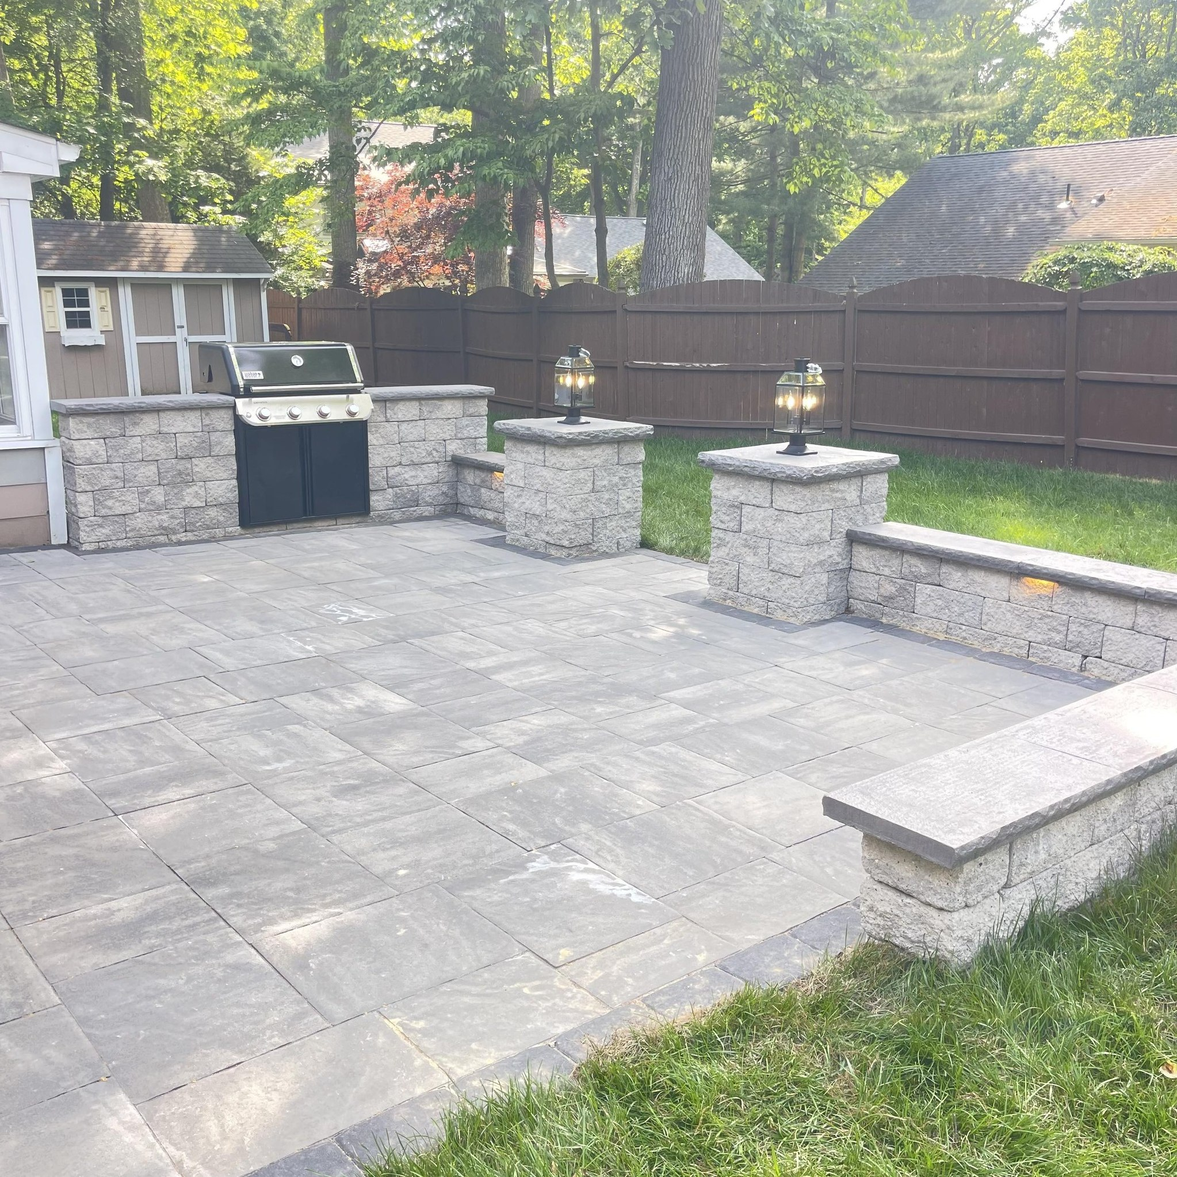
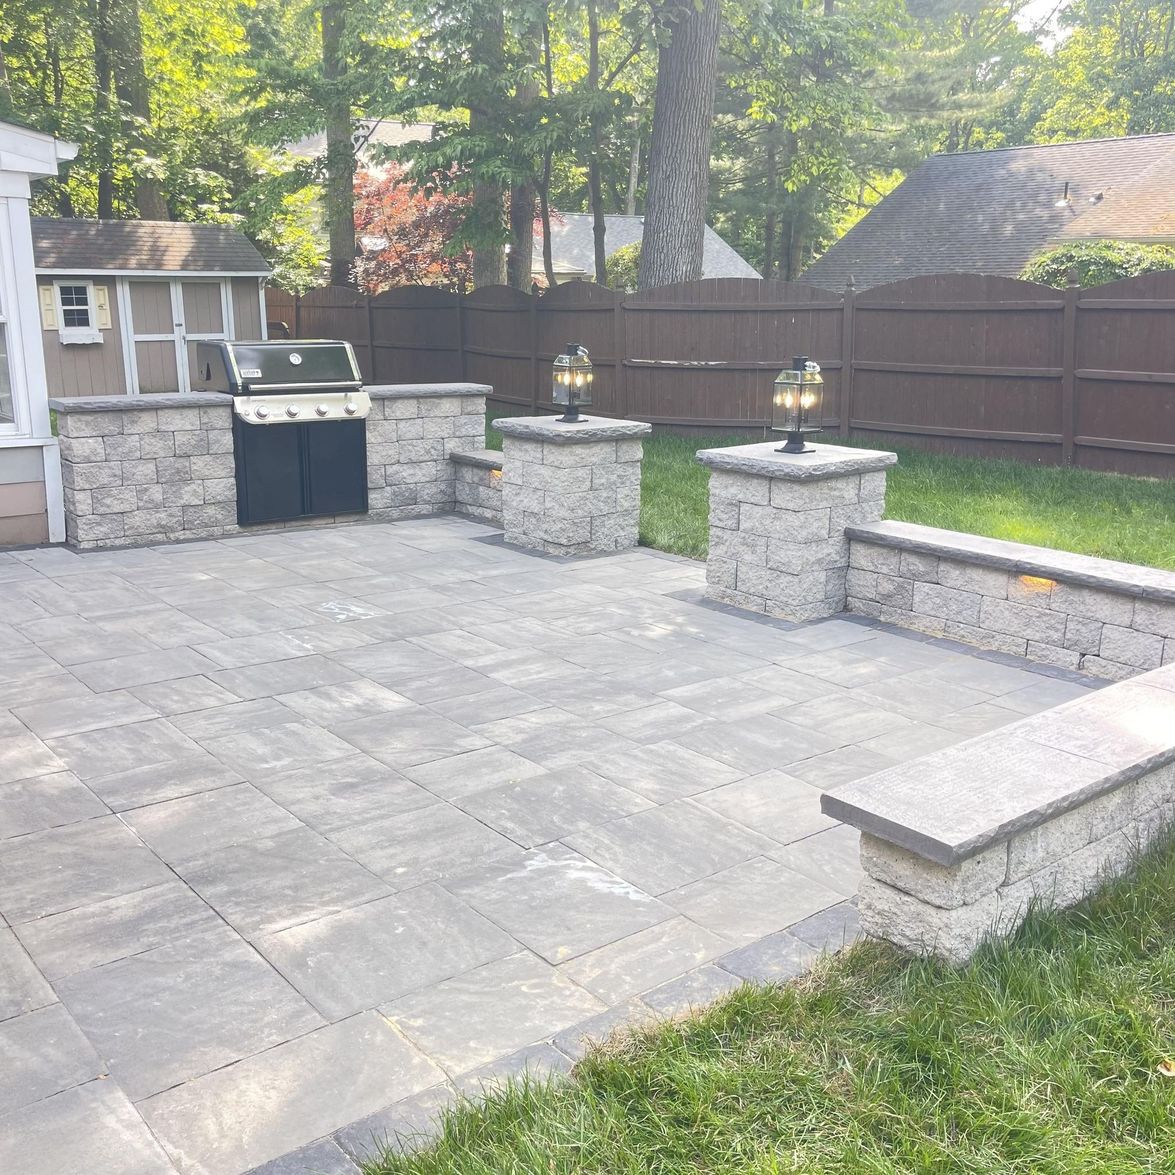
Cache-bust Hernandez assets after SHA dedupe.

diff --git a/hernandez-brothers-hardscaping-llc/photos.html b/hernandez-brothers-hardscaping-llc/photos.html
@@ -10,7 +10,7 @@
 <link rel="preconnect" href="https://fonts.googleapis.com">
 <link rel="preconnect" href="https://fonts.gstatic.com" crossorigin>
 <link href="https://fonts.googleapis.com/css2?family=Barlow+Condensed:wght@600;700&family=Inter:wght@400;500;600;700&display=swap" rel="stylesheet">
-<link rel="stylesheet" href="assets/site.css?v=harv20260814b">
+<link rel="stylesheet" href="assets/site.css?v=harv20260814cc">
 <meta name="vendly-demo-build" content="blank-mold-20260814-cleareyes">
 <style id="v-lb-css">
 .v-lb-btn{display:block;padding:0;margin:0;border:0;background:transparent;cursor:zoom-in;
@@ -54,7 +54,7 @@ color:#f5f5f0;font:500 14px/1.4 Inter,system-ui,sans-serif;background:linear-gra
       <span class="navtoggle-text">Menu</span>
     </button>
     <a href="index.html" aria-label="Hernandez &amp; Brothers Hardscaping LLC home" style="grid-column:2;justify-self:center">
-      <img class="logo" src="assets/logo.png?v=harv20260814b" alt="Hernandez &amp; Brothers Hardscaping LLC">
+      <img class="logo" src="assets/logo.png?v=harv20260814cc" alt="Hernandez &amp; Brothers Hardscaping LLC">
     </a>
     <span class="navbalance" aria-hidden="true">
       <svg width="20" height="20" viewBox="0 0 24 24" fill="none" stroke="currentColor" stroke-width="2.2" stroke-linecap="round"><path d="M3 6h18M3 12h18M3 18h18"/></svg>
@@ -89,21 +89,21 @@ color:#f5f5f0;font:500 14px/1.4 Inter,system-ui,sans-serif;background:linear-gra
       <p class="lede">Recent hardscape and lawn jobs from the Hernandez & Brothers crew.</p>
     </div>
     <div class="gallery" style="margin-top:32px">
-      <button type="button" class="v-lb-btn" data-v-lb data-v-lb-src="assets/photo-gallery-1.jpg?v=harv20260814bb" data-v-lb-alt="Finished paver patio with built-in grill surround and seating area" aria-label="Finished paver patio with built-in grill surround and seating area - Open photo"><img src="assets/photo-gallery-1.jpg?v=harv20260814bb" alt="Finished paver patio with built-in grill surround and seating area" loading="lazy"></button>
-      <button type="button" class="v-lb-btn" data-v-lb data-v-lb-src="assets/photo-gallery-2.jpg?v=harv20260814bb" data-v-lb-alt="Completed hardscape approach with stone walls and paver surface" aria-label="Completed hardscape approach with stone walls and paver surface - Open photo"><img src="assets/photo-gallery-2.jpg?v=harv20260814bb" alt="Completed hardscape approach with stone walls and paver surface" loading="lazy"></button>
-      <button type="button" class="v-lb-btn" data-v-lb data-v-lb-src="assets/photo-gallery-3.jpg?v=harv20260814bb" data-v-lb-alt="Paver walkway with landscape lighting along the edges" aria-label="Paver walkway with landscape lighting along the edges - Open photo"><img src="assets/photo-gallery-3.jpg?v=harv20260814bb" alt="Paver walkway with landscape lighting along the edges" loading="lazy"></button>
-      <button type="button" class="v-lb-btn" data-v-lb data-v-lb-src="assets/photo-gallery-4.jpg?v=harv20260814bb" data-v-lb-alt="Stone-walled garden bed and paver edging at a house frontage" aria-label="Stone-walled garden bed and paver edging at a house frontage - Open photo"><img src="assets/photo-gallery-4.jpg?v=harv20260814bb" alt="Stone-walled garden bed and paver edging at a house frontage" loading="lazy"></button>
-      <button type="button" class="v-lb-btn" data-v-lb data-v-lb-src="assets/photo-gallery-5.jpg?v=harv20260814bb" data-v-lb-alt="Finished paver and stone wall installation across the front of a property" aria-label="Finished paver and stone wall installation across the front of a property - Open photo"><img src="assets/photo-gallery-5.jpg?v=harv20260814bb" alt="Finished paver and stone wall installation across the front of a property" loading="lazy"></button>
-      <button type="button" class="v-lb-btn" data-v-lb data-v-lb-src="assets/photo-gallery-6.jpg?v=harv20260814bb" data-v-lb-alt="Paver walkway and step run leading to a front door" aria-label="Paver walkway and step run leading to a front door - Open photo"><img src="assets/photo-gallery-6.jpg?v=harv20260814bb" alt="Paver walkway and step run leading to a front door" loading="lazy"></button>
-      <button type="button" class="v-lb-btn" data-v-lb data-v-lb-src="assets/photo-gallery-7.jpg?v=harv20260814bb" data-v-lb-alt="Front entrance walkway with low stone retaining walls" aria-label="Front entrance walkway with low stone retaining walls - Open photo"><img src="assets/photo-gallery-7.jpg?v=harv20260814bb" alt="Front entrance walkway with low stone retaining walls" loading="lazy"></button>
-      <button type="button" class="v-lb-btn" data-v-lb data-v-lb-src="assets/photo-gallery-8.jpg?v=harv20260814bb" data-v-lb-alt="Completed hardscape walkway and stone walls at a residence" aria-label="Completed hardscape walkway and stone walls at a residence - Open photo"><img src="assets/photo-gallery-8.jpg?v=harv20260814bb" alt="Completed hardscape walkway and stone walls at a residence" loading="lazy"></button>
-      <button type="button" class="v-lb-btn" data-v-lb data-v-lb-src="assets/photo-gallery-9.jpg?v=harv20260814bb" data-v-lb-alt="Hernandez and Brothers work trailer lettered with the business name and phone" aria-label="Hernandez and Brothers work trailer lettered with the business name and phone - Open photo"><img src="assets/photo-gallery-9.jpg?v=harv20260814bb" alt="Hernandez and Brothers work trailer lettered with the business name and phone" loading="lazy"></button>
+      <button type="button" class="v-lb-btn" data-v-lb data-v-lb-src="assets/photo-gallery-1.jpg?v=harv20260814ccb" data-v-lb-alt="Finished paver patio with built-in grill surround and seating area" aria-label="Finished paver patio with built-in grill surround and seating area - Open photo"><img src="assets/photo-gallery-1.jpg?v=harv20260814ccb" alt="Finished paver patio with built-in grill surround and seating area" loading="lazy"></button>
+      <button type="button" class="v-lb-btn" data-v-lb data-v-lb-src="assets/photo-gallery-2.jpg?v=harv20260814ccb" data-v-lb-alt="Completed hardscape approach with stone walls and paver surface" aria-label="Completed hardscape approach with stone walls and paver surface - Open photo"><img src="assets/photo-gallery-2.jpg?v=harv20260814ccb" alt="Completed hardscape approach with stone walls and paver surface" loading="lazy"></button>
+      <button type="button" class="v-lb-btn" data-v-lb data-v-lb-src="assets/photo-gallery-3.jpg?v=harv20260814ccb" data-v-lb-alt="Paver walkway with landscape lighting along the edges" aria-label="Paver walkway with landscape lighting along the edges - Open photo"><img src="assets/photo-gallery-3.jpg?v=harv20260814ccb" alt="Paver walkway with landscape lighting along the edges" loading="lazy"></button>
+      <button type="button" class="v-lb-btn" data-v-lb data-v-lb-src="assets/photo-gallery-4.jpg?v=harv20260814ccb" data-v-lb-alt="Stone-walled garden bed and paver edging at a house frontage" aria-label="Stone-walled garden bed and paver edging at a house frontage - Open photo"><img src="assets/photo-gallery-4.jpg?v=harv20260814ccb" alt="Stone-walled garden bed and paver edging at a house frontage" loading="lazy"></button>
+      <button type="button" class="v-lb-btn" data-v-lb data-v-lb-src="assets/photo-gallery-5.jpg?v=harv20260814ccb" data-v-lb-alt="Finished paver and stone wall installation across the front of a property" aria-label="Finished paver and stone wall installation across the front of a property - Open photo"><img src="assets/photo-gallery-5.jpg?v=harv20260814ccb" alt="Finished paver and stone wall installation across the front of a property" loading="lazy"></button>
+      <button type="button" class="v-lb-btn" data-v-lb data-v-lb-src="assets/photo-gallery-6.jpg?v=harv20260814ccb" data-v-lb-alt="Paver walkway and step run leading to a front door" aria-label="Paver walkway and step run leading to a front door - Open photo"><img src="assets/photo-gallery-6.jpg?v=harv20260814ccb" alt="Paver walkway and step run leading to a front door" loading="lazy"></button>
+      <button type="button" class="v-lb-btn" data-v-lb data-v-lb-src="assets/photo-gallery-7.jpg?v=harv20260814ccb" data-v-lb-alt="Front entrance walkway with low stone retaining walls" aria-label="Front entrance walkway with low stone retaining walls - Open photo"><img src="assets/photo-gallery-7.jpg?v=harv20260814ccb" alt="Front entrance walkway with low stone retaining walls" loading="lazy"></button>
+      <button type="button" class="v-lb-btn" data-v-lb data-v-lb-src="assets/photo-gallery-8.jpg?v=harv20260814ccb" data-v-lb-alt="Completed hardscape walkway and stone walls at a residence" aria-label="Completed hardscape walkway and stone walls at a residence - Open photo"><img src="assets/photo-gallery-8.jpg?v=harv20260814ccb" alt="Completed hardscape walkway and stone walls at a residence" loading="lazy"></button>
+      <button type="button" class="v-lb-btn" data-v-lb data-v-lb-src="assets/photo-gallery-9.jpg?v=harv20260814ccb" data-v-lb-alt="Hernandez and Brothers work trailer lettered with the business name and phone" aria-label="Hernandez and Brothers work trailer lettered with the business name and phone - Open photo"><img src="assets/photo-gallery-9.jpg?v=harv20260814ccb" alt="Hernandez and Brothers work trailer lettered with the business name and phone" loading="lazy"></button>
     </div>
   </div>
 </section>
 
 <section class="ctaband reveal" aria-labelledby="h-cta-photos">
-  <img class="bg" src="assets/photo-photos-cta.jpg?v=harv20260814b" alt="" aria-hidden="true" loading="lazy">
+  <img class="bg" src="assets/photo-photos-cta.jpg?v=harv20260814cc" alt="" aria-hidden="true" loading="lazy">
   <div class="wrap inner">
     <h2 id="h-cta-photos">Job photos</h2>
     <p>Call (856) 899-0240 or send a note.</p>
@@ -121,7 +121,7 @@ color:#f5f5f0;font:500 14px/1.4 Inter,system-ui,sans-serif;background:linear-gra
     <div class="fgrid">
       <div>
         <div class="logo-chip" style="margin-bottom:16px">
-          <img class="logo-footer" src="assets/logo.png?v=harv20260814b" alt="Hernandez &amp; Brothers Hardscaping LLC">
+          <img class="logo-footer" src="assets/logo.png?v=harv20260814cc" alt="Hernandez &amp; Brothers Hardscaping LLC">
         </div>
         <p style="margin:0;max-width:34ch">Hernandez &amp; Brothers Hardscaping LLC serving Bridgeton.</p>
       </div>
@@ -175,8 +175,8 @@ color:#f5f5f0;font:500 14px/1.4 Inter,system-ui,sans-serif;background:linear-gra
     accent: "#33663F"
   };
 </script>
-<script src="assets/siteassistant-v2.js?v=harv20260814b" defer></script>
-<script src="assets/site.js?v=harv20260814b" defer></script>
+<script src="assets/siteassistant-v2.js?v=harv20260814cc" defer></script>
+<script src="assets/site.js?v=harv20260814cc" defer></script>
 <script id="v-lb-js">
 (function(){
   if (window.__vendlyLightbox) return;

diff --git a/hernandez-brothers-hardscaping-llc/about.html b/hernandez-brothers-hardscaping-llc/about.html
@@ -10,7 +10,7 @@
 <link rel="preconnect" href="https://fonts.googleapis.com">
 <link rel="preconnect" href="https://fonts.gstatic.com" crossorigin>
 <link href="https://fonts.googleapis.com/css2?family=Barlow+Condensed:wght@600;700&family=Inter:wght@400;500;600;700&display=swap" rel="stylesheet">
-<link rel="stylesheet" href="assets/site.css?v=harv20260814b">
+<link rel="stylesheet" href="assets/site.css?v=harv20260814cc">
 <meta name="vendly-demo-build" content="blank-mold-20260814-cleareyes">
 <style id="v-lb-css">
 .v-lb-btn{display:block;padding:0;margin:0;border:0;background:transparent;cursor:zoom-in;
@@ -54,7 +54,7 @@ color:#f5f5f0;font:500 14px/1.4 Inter,system-ui,sans-serif;background:linear-gra
       <span class="navtoggle-text">Menu</span>
     </button>
     <a href="index.html" aria-label="Hernandez &amp; Brothers Hardscaping LLC home" style="grid-column:2;justify-self:center">
-      <img class="logo" src="assets/logo.png?v=harv20260814b" alt="Hernandez &amp; Brothers Hardscaping LLC">
+      <img class="logo" src="assets/logo.png?v=harv20260814cc" alt="Hernandez &amp; Brothers Hardscaping LLC">
     </a>
     <span class="navbalance" aria-hidden="true">
       <svg width="20" height="20" viewBox="0 0 24 24" fill="none" stroke="currentColor" stroke-width="2.2" stroke-linecap="round"><path d="M3 6h18M3 12h18M3 18h18"/></svg>
@@ -108,7 +108,7 @@ color:#f5f5f0;font:500 14px/1.4 Inter,system-ui,sans-serif;background:linear-gra
       <h2 id="h-area">Where we work</h2>
       <p class="lede">Family crew based in Southern New Jersey. We show up, do the work clean, and leave the job looking like the pictures.</p>
     </div>
-    <div class="media" style="margin-top:28px"><img src="assets/photo-about.jpg?v=harv20260814b" alt="Paver walkway with landscape lighting along the edges" loading="lazy"></div>
+    <div class="media" style="margin-top:28px"><img src="assets/photo-about.jpg?v=harv20260814cc" alt="Paver walkway with landscape lighting along the edges" loading="lazy"></div>
     <div class="areas">
       <span class="area">Bridgeton</span>
     </div>
@@ -126,7 +126,7 @@ color:#f5f5f0;font:500 14px/1.4 Inter,system-ui,sans-serif;background:linear-gra
     <div class="fgrid">
       <div>
         <div class="logo-chip" style="margin-bottom:16px">
-          <img class="logo-footer" src="assets/logo.png?v=harv20260814b" alt="Hernandez &amp; Brothers Hardscaping LLC">
+          <img class="logo-footer" src="assets/logo.png?v=harv20260814cc" alt="Hernandez &amp; Brothers Hardscaping LLC">
         </div>
         <p style="margin:0;max-width:34ch">Hernandez &amp; Brothers Hardscaping LLC serving Bridgeton.</p>
       </div>
@@ -180,8 +180,8 @@ color:#f5f5f0;font:500 14px/1.4 Inter,system-ui,sans-serif;background:linear-gra
     accent: "#33663F"
   };
 </script>
-<script src="assets/siteassistant-v2.js?v=harv20260814b" defer></script>
-<script src="assets/site.js?v=harv20260814b" defer></script>
+<script src="assets/siteassistant-v2.js?v=harv20260814cc" defer></script>
+<script src="assets/site.js?v=harv20260814cc" defer></script>
 <script id="v-lb-js">
 (function(){
   if (window.__vendlyLightbox) return;

diff --git a/hernandez-brothers-hardscaping-llc/index.html b/hernandez-brothers-hardscaping-llc/index.html
@@ -32,7 +32,7 @@
 <link rel="preconnect" href="https://fonts.googleapis.com">
 <link rel="preconnect" href="https://fonts.gstatic.com" crossorigin>
 <link href="https://fonts.googleapis.com/css2?family=Barlow+Condensed:wght@600;700&family=Inter:wght@400;500;600;700&display=swap" rel="stylesheet">
-<link rel="stylesheet" href="assets/site.css?v=harv20260814b">
+<link rel="stylesheet" href="assets/site.css?v=harv20260814cc">
 <style id="v-lb-css">
 .v-lb-btn{display:block;padding:0;margin:0;border:0;background:transparent;cursor:zoom-in;
 width:100%;text-align:inherit;font:inherit;color:inherit;border-radius:inherit;overflow:hidden}
@@ -75,7 +75,7 @@ color:#f5f5f0;font:500 14px/1.4 Inter,system-ui,sans-serif;background:linear-gra
       <span class="navtoggle-text">Menu</span>
     </button>
     <a href="index.html" aria-label="Hernandez &amp; Brothers Hardscaping LLC home" style="grid-column:2;justify-self:center">
-      <img class="logo" src="assets/logo.png?v=harv20260814b" alt="Hernandez &amp; Brothers Hardscaping LLC">
+      <img class="logo" src="assets/logo.png?v=harv20260814cc" alt="Hernandez &amp; Brothers Hardscaping LLC">
     </a>
     <span class="navbalance" aria-hidden="true">
       <svg width="20" height="20" viewBox="0 0 24 24" fill="none" stroke="currentColor" stroke-width="2.2" stroke-linecap="round"><path d="M3 6h18M3 12h18M3 18h18"/></svg>
@@ -103,7 +103,7 @@ color:#f5f5f0;font:500 14px/1.4 Inter,system-ui,sans-serif;background:linear-gra
 <main id="main">
 
 <section class="hero hero-darken-band" aria-labelledby="h-hero">
-  <img class="bg" src="assets/photo-hero.jpg?v=harv20260814b" alt="Landscaping work in Bridgeton" loading="eager">
+  <img class="bg" src="assets/photo-hero.jpg?v=harv20260814cc" alt="Landscaping work in Bridgeton" loading="eager">
   <div class="wrap hero-inner">
     <span class="eyebrow">Bridgeton</span>
     <h1 id="h-hero">Grass getting away from you? <em>Put us on it.</em></h1>
@@ -239,7 +239,7 @@ color:#f5f5f0;font:500 14px/1.4 Inter,system-ui,sans-serif;background:linear-gra
     <div class="fgrid">
       <div>
         <div class="logo-chip" style="margin-bottom:16px">
-          <img class="logo-footer" src="assets/logo.png?v=harv20260814b" alt="Hernandez &amp; Brothers Hardscaping LLC">
+          <img class="logo-footer" src="assets/logo.png?v=harv20260814cc" alt="Hernandez &amp; Brothers Hardscaping LLC">
         </div>
         <p style="margin:0;max-width:34ch">Hernandez &amp; Brothers Hardscaping LLC serving Bridgeton.</p>
       </div>
@@ -305,9 +305,9 @@ color:#f5f5f0;font:500 14px/1.4 Inter,system-ui,sans-serif;background:linear-gra
     accent: "#33663F"
   };
 </script>
-<script src="assets/siteassistant-v2.js?v=harv20260814b" defer></script>
-<script src="assets/hero-rotator.js?v=harv20260814b" defer></script>
-<script src="assets/site.js?v=harv20260814b" defer></script>
+<script src="assets/siteassistant-v2.js?v=harv20260814cc" defer></script>
+<script src="assets/hero-rotator.js?v=harv20260814cc" defer></script>
+<script src="assets/site.js?v=harv20260814cc" defer></script>
 <script id="v-lb-js">
 (function(){
   if (window.__vendlyLightbox) return;

diff --git a/hernandez-brothers-hardscaping-llc/contact.html b/hernandez-brothers-hardscaping-llc/contact.html
@@ -10,7 +10,7 @@
 <link rel="preconnect" href="https://fonts.googleapis.com">
 <link rel="preconnect" href="https://fonts.gstatic.com" crossorigin>
 <link href="https://fonts.googleapis.com/css2?family=Barlow+Condensed:wght@600;700&family=Inter:wght@400;500;600;700&display=swap" rel="stylesheet">
-<link rel="stylesheet" href="assets/site.css?v=harv20260814b">
+<link rel="stylesheet" href="assets/site.css?v=harv20260814cc">
 <meta name="vendly-demo-build" content="blank-mold-20260814-cleareyes">
 <style id="v-lb-css">
 .v-lb-btn{display:block;padding:0;margin:0;border:0;background:transparent;cursor:zoom-in;
@@ -54,7 +54,7 @@ color:#f5f5f0;font:500 14px/1.4 Inter,system-ui,sans-serif;background:linear-gra
       <span class="navtoggle-text">Menu</span>
     </button>
     <a href="index.html" aria-label="Hernandez &amp; Brothers Hardscaping LLC home" style="grid-column:2;justify-self:center">
-      <img class="logo" src="assets/logo.png?v=harv20260814b" alt="Hernandez &amp; Brothers Hardscaping LLC">
+      <img class="logo" src="assets/logo.png?v=harv20260814cc" alt="Hernandez &amp; Brothers Hardscaping LLC">
     </a>
     <span class="navbalance" aria-hidden="true">
       <svg width="20" height="20" viewBox="0 0 24 24" fill="none" stroke="currentColor" stroke-width="2.2" stroke-linecap="round"><path d="M3 6h18M3 12h18M3 18h18"/></svg>
@@ -90,7 +90,7 @@ color:#f5f5f0;font:500 14px/1.4 Inter,system-ui,sans-serif;background:linear-gra
         <p class="contact-cta"><a class="btn btn-blue" href="index.html#quote">Get estimate</a></p>
       </div>
       <div class="shot shot-contain contact-shot">
-        <img class="contact-logo" src="assets/logo.png?v=harv20260814b" alt="Hernandez &amp; Brothers Hardscaping LLC logo" loading="eager">
+        <img class="contact-logo" src="assets/logo.png?v=harv20260814cc" alt="Hernandez &amp; Brothers Hardscaping LLC logo" loading="eager">
       </div>
     </div>
   </div>
@@ -102,7 +102,7 @@ color:#f5f5f0;font:500 14px/1.4 Inter,system-ui,sans-serif;background:linear-gra
     <div class="fgrid">
       <div>
         <div class="logo-chip" style="margin-bottom:16px">
-          <img class="logo-footer" src="assets/logo.png?v=harv20260814b" alt="Hernandez &amp; Brothers Hardscaping LLC">
+          <img class="logo-footer" src="assets/logo.png?v=harv20260814cc" alt="Hernandez &amp; Brothers Hardscaping LLC">
         </div>
         <p style="margin:0;max-width:34ch">Hernandez &amp; Brothers Hardscaping LLC serving Bridgeton.</p>
       </div>
@@ -155,8 +155,8 @@ color:#f5f5f0;font:500 14px/1.4 Inter,system-ui,sans-serif;background:linear-gra
     accent: "#33663F"
   };
 </script>
-<script src="assets/siteassistant-v2.js?v=harv20260814b" defer></script>
-<script src="assets/site.js?v=harv20260814b" defer></script>
+<script src="assets/siteassistant-v2.js?v=harv20260814cc" defer></script>
+<script src="assets/site.js?v=harv20260814cc" defer></script>
 <script id="v-lb-js">
 (function(){
   if (window.__vendlyLightbox) return;

diff --git a/hernandez-brothers-hardscaping-llc/reviews.html b/hernandez-brothers-hardscaping-llc/reviews.html
@@ -10,7 +10,7 @@
 <link rel="preconnect" href="https://fonts.googleapis.com">
 <link rel="preconnect" href="https://fonts.gstatic.com" crossorigin>
 <link href="https://fonts.googleapis.com/css2?family=Barlow+Condensed:wght@600;700&family=Inter:wght@400;500;600;700&display=swap" rel="stylesheet">
-<link rel="stylesheet" href="assets/site.css?v=harv20260814b">
+<link rel="stylesheet" href="assets/site.css?v=harv20260814cc">
 <meta name="vendly-demo-build" content="blank-mold-20260814-cleareyes">
 <style id="v-lb-css">
 .v-lb-btn{display:block;padding:0;margin:0;border:0;background:transparent;cursor:zoom-in;
@@ -53,7 +53,7 @@ color:#f5f5f0;font:500 14px/1.4 Inter,system-ui,sans-serif;background:linear-gra
       <span class="navtoggle-text">Menu</span>
     </button>
     <a href="index.html" aria-label="Hernandez &amp; Brothers Hardscaping LLC home" style="grid-column:2;justify-self:center">
-      <img class="logo" src="assets/logo.png?v=harv20260814b" alt="Hernandez &amp; Brothers Hardscaping LLC">
+      <img class="logo" src="assets/logo.png?v=harv20260814cc" alt="Hernandez &amp; Brothers Hardscaping LLC">
     </a>
     <span class="navbalance" aria-hidden="true">
       <svg width="20" height="20" viewBox="0 0 24 24" fill="none" stroke="currentColor" stroke-width="2.2" stroke-linecap="round"><path d="M3 6h18M3 12h18M3 18h18"/></svg>
@@ -103,7 +103,7 @@ color:#f5f5f0;font:500 14px/1.4 Inter,system-ui,sans-serif;background:linear-gra
     <div class="fgrid">
       <div>
         <div class="logo-chip" style="margin-bottom:16px">
-          <img class="logo-footer" src="assets/logo.png?v=harv20260814b" alt="Hernandez &amp; Brothers Hardscaping LLC">
+          <img class="logo-footer" src="assets/logo.png?v=harv20260814cc" alt="Hernandez &amp; Brothers Hardscaping LLC">
         </div>
         <p style="margin:0;max-width:34ch">Hernandez &amp; Brothers Hardscaping LLC serving Bridgeton.</p>
       </div>
@@ -156,8 +156,8 @@ color:#f5f5f0;font:500 14px/1.4 Inter,system-ui,sans-serif;background:linear-gra
     accent: "#33663F"
   };
 </script>
-<script src="assets/siteassistant-v2.js?v=harv20260814b" defer></script>
-<script src="assets/site.js?v=harv20260814b" defer></script>
+<script src="assets/siteassistant-v2.js?v=harv20260814cc" defer></script>
+<script src="assets/site.js?v=harv20260814cc" defer></script>
 <script id="v-lb-js">
 (function(){
   if (window.__vendlyLightbox) return;

diff --git a/hernandez-brothers-hardscaping-llc/services.html b/hernandez-brothers-hardscaping-llc/services.html
@@ -10,7 +10,7 @@
 <link rel="preconnect" href="https://fonts.googleapis.com">
 <link rel="preconnect" href="https://fonts.gstatic.com" crossorigin>
 <link href="https://fonts.googleapis.com/css2?family=Barlow+Condensed:wght@600;700&family=Inter:wght@400;500;600;700&display=swap" rel="stylesheet">
-<link rel="stylesheet" href="assets/site.css?v=harv20260814b">
+<link rel="stylesheet" href="assets/site.css?v=harv20260814cc">
 <meta name="vendly-demo-build" content="blank-mold-20260814-cleareyes">
 <style id="v-lb-css">
 .v-lb-btn{display:block;padding:0;margin:0;border:0;background:transparent;cursor:zoom-in;
@@ -54,7 +54,7 @@ color:#f5f5f0;font:500 14px/1.4 Inter,system-ui,sans-serif;background:linear-gra
       <span class="navtoggle-text">Menu</span>
     </button>
     <a href="index.html" aria-label="Hernandez &amp; Brothers Hardscaping LLC home" style="grid-column:2;justify-self:center">
-      <img class="logo" src="assets/logo.png?v=harv20260814b" alt="Hernandez &amp; Brothers Hardscaping LLC">
+      <img class="logo" src="assets/logo.png?v=harv20260814cc" alt="Hernandez &amp; Brothers Hardscaping LLC">
     </a>
     <span class="navbalance" aria-hidden="true">
       <svg width="20" height="20" viewBox="0 0 24 24" fill="none" stroke="currentColor" stroke-width="2.2" stroke-linecap="round"><path d="M3 6h18M3 12h18M3 18h18"/></svg>
@@ -118,7 +118,7 @@ color:#f5f5f0;font:500 14px/1.4 Inter,system-ui,sans-serif;background:linear-gra
     <div class="fgrid">
       <div>
         <div class="logo-chip" style="margin-bottom:16px">
-          <img class="logo-footer" src="assets/logo.png?v=harv20260814b" alt="Hernandez &amp; Brothers Hardscaping LLC">
+          <img class="logo-footer" src="assets/logo.png?v=harv20260814cc" alt="Hernandez &amp; Brothers Hardscaping LLC">
         </div>
         <p style="margin:0;max-width:34ch">Hernandez &amp; Brothers Hardscaping LLC serving Bridgeton.</p>
       </div>
@@ -172,8 +172,8 @@ color:#f5f5f0;font:500 14px/1.4 Inter,system-ui,sans-serif;background:linear-gra
     accent: "#33663F"
   };
 </script>
-<script src="assets/siteassistant-v2.js?v=harv20260814b" defer></script>
-<script src="assets/site.js?v=harv20260814b" defer></script>
+<script src="assets/siteassistant-v2.js?v=harv20260814cc" defer></script>
+<script src="assets/site.js?v=harv20260814cc" defer></script>
 <script id="v-lb-js">
 (function(){
   if (window.__vendlyLightbox) return;
